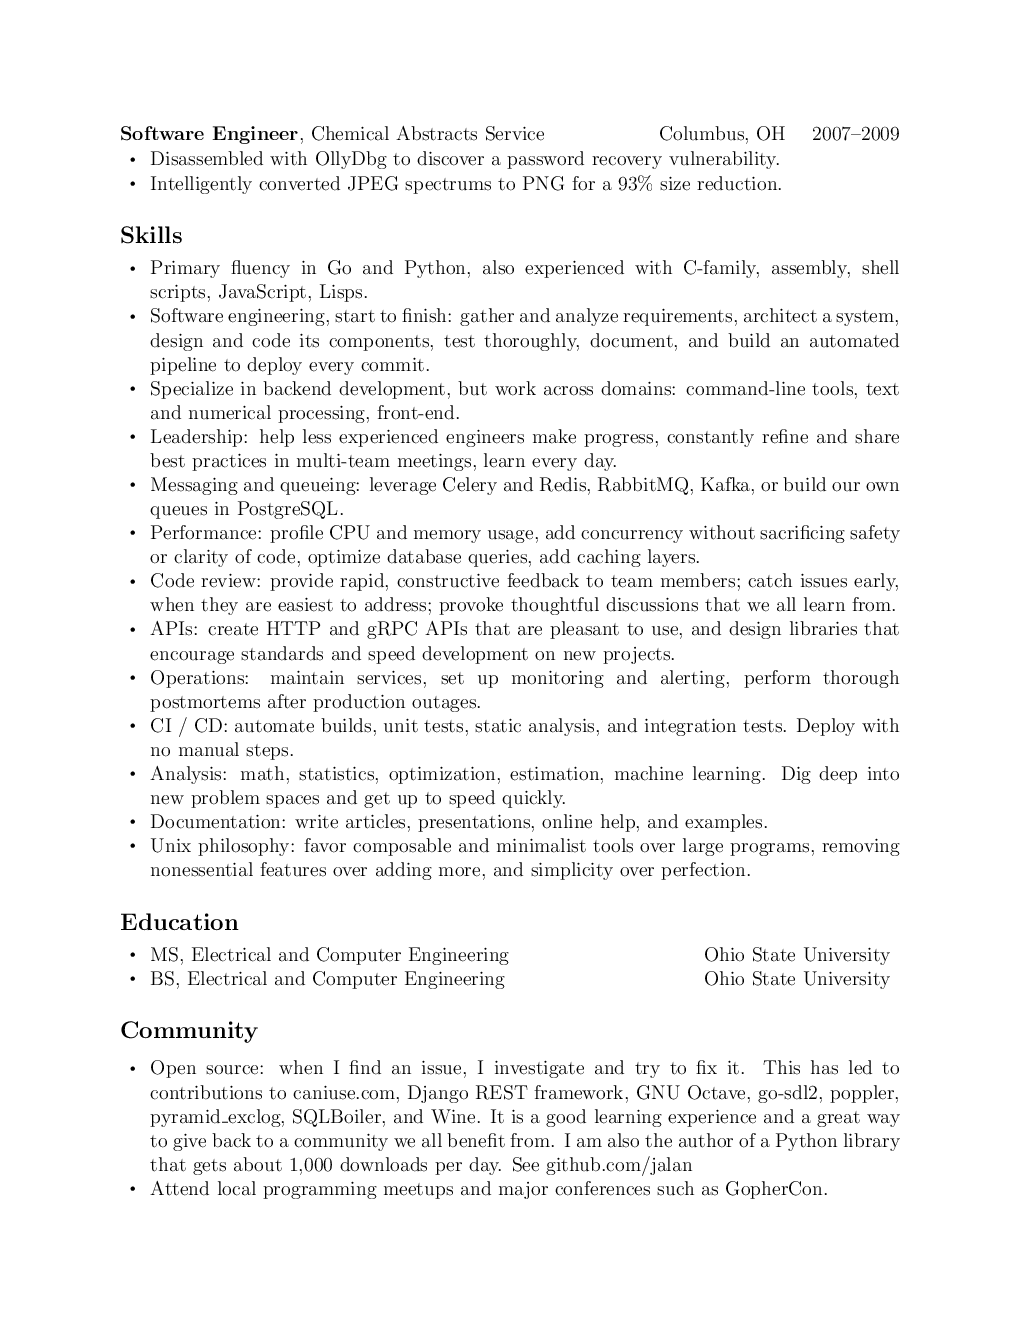
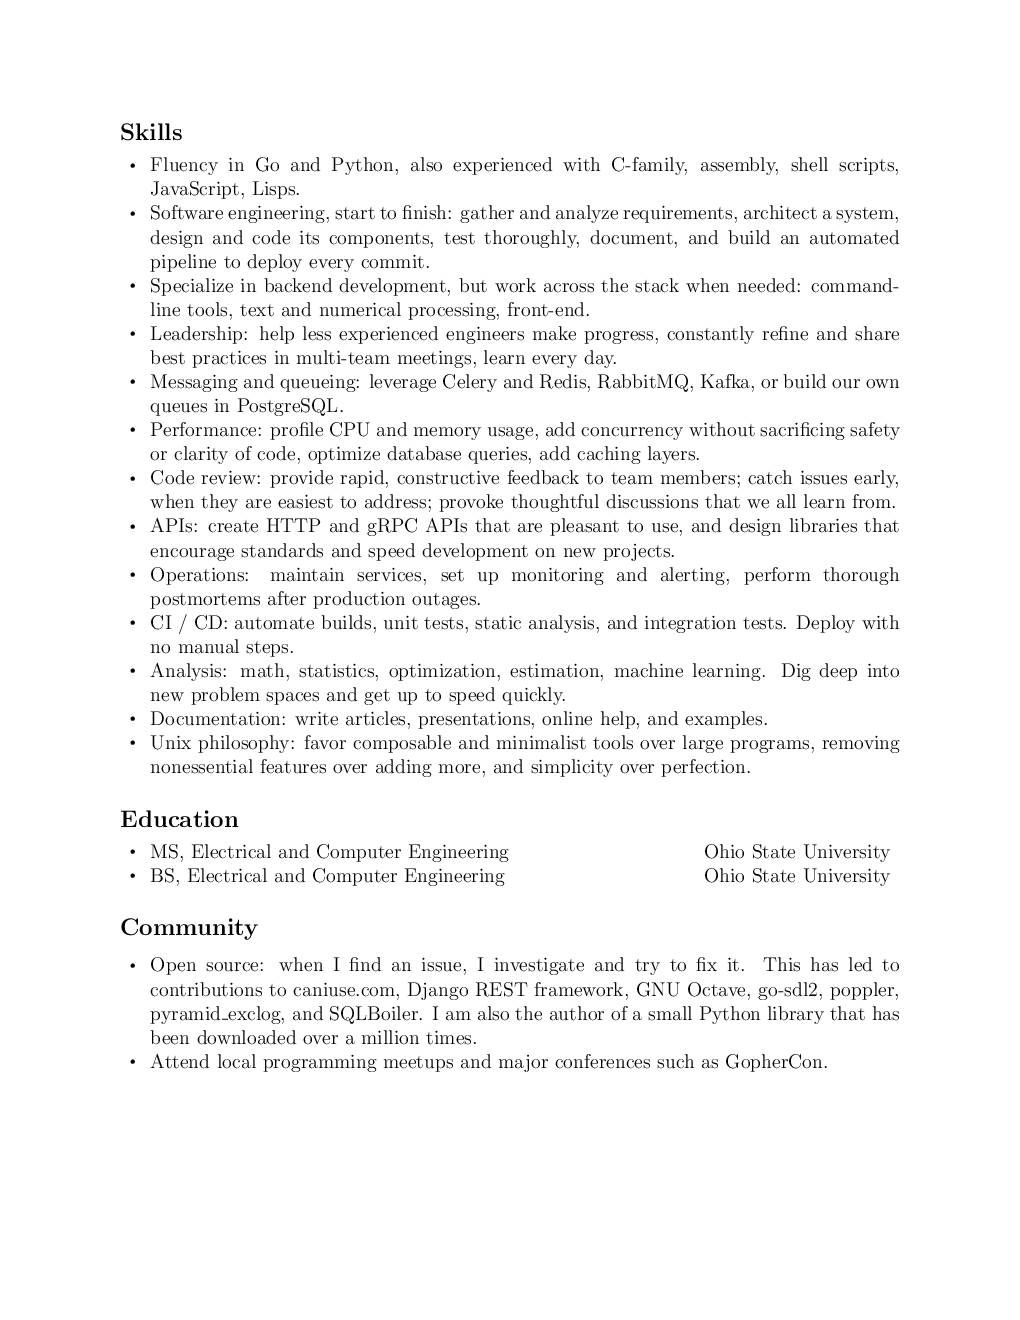
Update for 2022

Changed region(s): [[0.1216, 0.0932, 0.8814, 0.9008], [0.7902, 0.0932, 0.8814, 0.1242]]

diff --git a/resume.tex b/resume.tex
@@ -40,11 +40,9 @@
 
 \begin{document}
 
+\hbox{\textbf{\large Jason Alan Palmer}\strut}\hrule\kern2pt
+
 % Just name and email, since this is online
-\centerline{\textbf{\large Jason Alan Palmer}}
-
-\rule{\textwidth}{1pt}
-
 \href{mailto:jalanpalmer@gmail.com}{jalanpalmer@gmail.com}
 \hfill
 \href{https://www.linkedin.com/in/jalanpalmer}{linkedin.com/in/jalanpalmer}
@@ -53,20 +51,19 @@
 \subsection*{Experience}
 
 \begin{jobhead}
-\textbf{Senior Software Developer}, ActiveState && (remote) ~~ 2019--~~~~~~ \\
+\textbf{Principal Software Engineer}, Dell Technologies && (remote) ~~ 2021--~~~~~~ \\
 \end{jobhead}
 \begin{bullets}
-Creating a next-generation dependency resolution system that works across ecosystems and on multiple platforms. \\
-Maintaining an inventory of software packages for users to create custom runtimes. \\
-Maximizing observability via metric reporting, distributed tracing, and careful logging. \\
+APEX: provisioning inside customer datacenters, managing from the cloud. \\
 \end{bullets}
 
 \begin{jobhead}
-\textbf{Senior Backend Engineer}, Percolate && Denver, CO ~~ 2019\enspace~~~~~~ \\
+\textbf{Senior Software Developer}, ActiveState && (remote) ~~ 2019--2021 \\
 \end{jobhead}
 \begin{bullets}
-Integrated with Okta to provide our users with seamless access to external apps. \\
-Maintained and extended core data models (users, roles, and capabilities). \\
+Created a next-generation dependency resolution system that works across ecosystems and on multiple platforms. \\
+Maintained an inventory of software packages for users to create custom runtimes. \\
+Maximized observability via metric reporting, distributed tracing, and careful logging. \\
 \end{bullets}
 
 \begin{jobhead}
@@ -100,7 +97,7 @@ Scaled up data processing by a factor of 100. \\
 On-site at the NIH's Office of Portfolio Analysis (OPA) \\
 \begin{bullets}
 Developed web applications, including OPA's first public app, iCite (\href{https://icite.od.nih.gov}{icite.od.nih.gov}). \\
-Implemented the Relative Citation Ratio, a metric for assessing impact of scientific articles. \\
+Implemented the Relative Citation Ratio, assessing the impact of scientific articles. \\
 \end{bullets}
 
 \begin{jobhead}
@@ -139,9 +136,9 @@ Intelligently converted JPEG spectrums to PNG for a 93\% size reduction. \\
 
 \subsection*{Skills}
 \begin{bullets}
-Primary fluency in Go and Python, also experienced with C-family, assembly, shell scripts, JavaScript, Lisps. \\
+Fluency in Go and Python, also experienced with C-family, assembly, shell scripts, JavaScript, Lisps. \\
 Software engineering, start to finish: gather and analyze requirements, architect a system, design and code its components, test thoroughly, document, and build an automated pipeline to deploy every commit. \\
-Specialize in backend development, but work across domains: command-line tools, text and numerical processing, front-end. \\
+Specialize in backend development, but work across the stack when needed: command-line tools, text and numerical processing, front-end. \\
 Leadership: help less experienced engineers make progress, constantly refine and share best practices in multi-team meetings, learn every day. \\
 Messaging and queueing: leverage Celery and Redis, RabbitMQ, Kafka, or build our own queues in PostgreSQL. \\
 Performance: profile CPU and memory usage, add concurrency without sacrificing safety or clarity of code, optimize database queries, add caching layers. \\
@@ -170,11 +167,9 @@ This has led to contributions to
 	go-sdl2,
 	poppler,
 	pyramid\_exclog,
-	SQLBoiler,
 	and
-	Wine.
-It is a good learning experience and a great way to give back to a community we all benefit from.
-I am also the author of a Python library that gets about 1,000 downloads per day. See \href{https://github.com/jalan}{github.com/jalan} \\
+	SQLBoiler.
+I am also the author of a small Python library that has been downloaded over a million times. \\
 Attend local programming meetups and major conferences such as GopherCon. \\
 \end{bullets}
 
